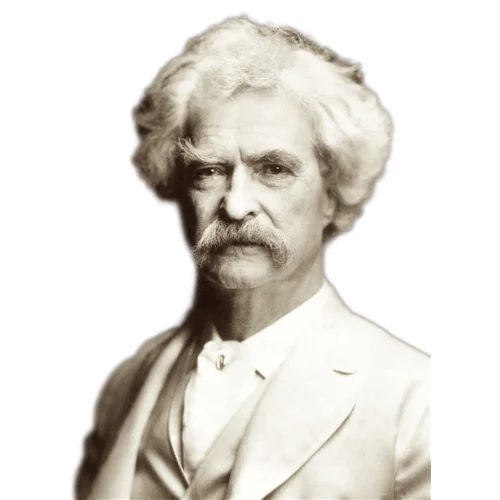
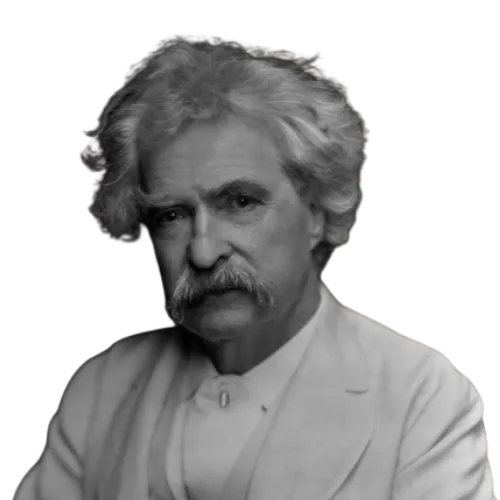
feat: optimize images to webp + update farcaster cast embeds

diff --git a/packages/nextjs/utils/neynar.ts b/packages/nextjs/utils/neynar.ts
@@ -2,7 +2,7 @@ export const fetchProofCasts = async (
   goalId: number,
   creatorFid: number,
   apiKey: string,
-): Promise<{ text: string; hash: string } | null> => {
+): Promise<{ text: string; hash: string; timestamp?: string } | null> => {
   if (!apiKey) {
     console.warn("[PROOF] fetchProofCasts: No API key provided");
     return null;
@@ -47,6 +47,7 @@ export const fetchProofCasts = async (
         return {
           text: proofCast.text,
           hash: proofCast.hash,
+          timestamp: proofCast.timestamp, // ISO timestamp from Neynar
         };
       } else {
       }
@@ -55,6 +56,54 @@ export const fetchProofCasts = async (
     return null;
   } catch (error) {
     console.warn("[PROOF] Error fetching proof casts:", error);
+    return null;
+  }
+};
+
+/**
+ * Fetch cast details by hash to get timestamp and other metadata
+ */
+export const fetchCastByHash = async (
+  castHash: string,
+  apiKey: string,
+): Promise<{ text: string; timestamp: string; author: { fid: number; username?: string } } | null> => {
+  if (!apiKey || !castHash) {
+    return null;
+  }
+
+  try {
+    const url = `https://api.neynar.com/v2/farcaster/cast?identifier=${castHash}&type=hash`;
+
+    const response = await fetch(url, {
+      method: "GET",
+      headers: {
+        accept: "application/json",
+        "x-api-key": apiKey,
+      },
+    });
+
+    if (!response.ok) {
+      console.warn(`[CAST] fetchCastByHash failed: ${response.status}`);
+      return null;
+    }
+
+    const data = await response.json();
+    const cast = data.cast;
+
+    if (cast) {
+      return {
+        text: cast.text,
+        timestamp: cast.timestamp,
+        author: {
+          fid: cast.author?.fid,
+          username: cast.author?.username,
+        },
+      };
+    }
+
+    return null;
+  } catch (error) {
+    console.warn("[CAST] Error fetching cast by hash:", error);
     return null;
   }
 };

diff --git a/packages/nextjs/hooks/vouchie/useVouchieData.ts b/packages/nextjs/hooks/vouchie/useVouchieData.ts
@@ -46,8 +46,10 @@ export const useVouchieData = () => {
   const [farcasterUsers, setFarcasterUsers] = useState<Map<string, FarcasterUser | null>>(new Map());
   /** All verified ETH addresses for the current user's Farcaster FID */
   const [userVerifiedAddresses, setUserVerifiedAddresses] = useState<string[]>([]);
-  /** Map of goalId → proof cast data (text + hash) from Farcaster */
-  const [proofCastsMap, setProofCastsMap] = useState<Map<number, { text: string; hash: string }>>(new Map());
+  /** Map of goalId → proof cast data (text + hash + timestamp) from Farcaster */
+  const [proofCastsMap, setProofCastsMap] = useState<Map<number, { text: string; hash: string; timestamp?: string }>>(
+    new Map(),
+  );
 
   // Fetch all verified addresses for current user's FID
   useEffect(() => {
@@ -378,6 +380,7 @@ export const useVouchieData = () => {
         if (proof) {
           newData.proofText = proof.text;
           newData.proofCastHash = proof.hash;
+          newData.proofTimestamp = proof.timestamp ? new Date(proof.timestamp).getTime() : undefined;
           newData.status = "verifying"; // Override status
         }
 

diff --git a/packages/nextjs/utils/castHelpers.ts b/packages/nextjs/utils/castHelpers.ts
@@ -116,12 +116,12 @@ export function buildGoalCreatedCast(
       `Vouch for me fam! 💪`;
   }
 
-  // Use the app URL with goal param as embed (Farcaster will fetch OG from our API)
-  const embedUrl = buildGoalShareUrl(baseUrl, params.goalId);
+  // Use the thumbnail_miniapp.webp as the embed image for goal creation
+  const embedImageUrl = `${baseUrl}/thumbnail_miniapp.webp`;
 
   return {
     text,
-    embeds: [embedUrl],
+    embeds: [embedImageUrl],
   };
 }
 
@@ -166,11 +166,11 @@ export function buildProofSubmittedCast(
       `Stake your goals → Actually do them → Win 🏆`;
   }
 
-  // Use the share URL with goal context
-  const embedUrl = buildGoalShareUrl(baseUrl, params.goalId);
+  // Use the vouchie.webp as the embed image for proof submission
+  const embedImageUrl = `${baseUrl}/vouchie.webp`;
 
   return {
     text,
-    embeds: [embedUrl],
+    embeds: [embedImageUrl],
   };
 }

diff --git a/packages/nextjs/types/vouchie.ts b/packages/nextjs/types/vouchie.ts
@@ -24,6 +24,7 @@ export interface Goal {
   currentUserVouchieIndex?: number;
   proofText?: string;
   proofCastHash?: string; // Warpcast cast hash for linking to proof
+  proofTimestamp?: number; // Actual proof submission timestamp (from Farcaster cast)
   votesValid?: number;
   votesInvalid?: number;
 }
